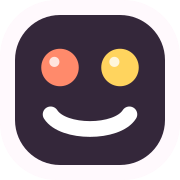
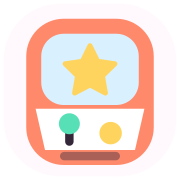
feat: refine v1 arcade branding

diff --git a/app/opengraph-image.tsx b/app/opengraph-image.tsx
@@ -51,30 +51,85 @@ export default function OpenGraphImage() {
               width: 118,
               height: 118,
               marginBottom: 22,
-              border: "9px solid white",
               borderRadius: 38,
-              background: "#34273a",
-              boxShadow: "0 10px 0 rgba(52,39,58,0.1)",
+              background: "#fff9fd",
+              boxShadow: "0 10px 0 rgba(52,39,58,0.08)",
             }}
           >
             <span
               style={{
                 position: "absolute",
-                left: 24,
-                top: 28,
-                width: 25,
-                height: 25,
-                borderRadius: 99,
+                left: 17,
+                top: 12,
+                width: 84,
+                height: 96,
+                borderRadius: 25,
                 background: CANDY_HEX.coral,
               }}
             />
             <span
               style={{
                 position: "absolute",
-                right: 24,
-                top: 28,
-                width: 25,
-                height: 25,
+                left: 27,
+                top: 22,
+                width: 64,
+                height: 47,
+                borderRadius: 15,
+                background: "#d9f1ff",
+              }}
+            />
+            <span
+              style={{
+                position: "absolute",
+                left: 46,
+                top: 31,
+                width: 26,
+                height: 26,
+                background: CANDY_HEX.lemon,
+                clipPath:
+                  "polygon(50% 0%, 61% 34%, 98% 35%, 68% 57%, 79% 94%, 50% 72%, 21% 94%, 32% 57%, 2% 35%, 39% 34%)",
+              }}
+            />
+            <span
+              style={{
+                position: "absolute",
+                left: 23,
+                top: 71,
+                width: 72,
+                height: 27,
+                background: "white",
+                clipPath: "polygon(0 0, 100% 0, 91% 100%, 9% 100%)",
+              }}
+            />
+            <span
+              style={{
+                position: "absolute",
+                left: 44,
+                top: 81,
+                width: 6,
+                height: 13,
+                borderRadius: 99,
+                background: "#34273a",
+              }}
+            />
+            <span
+              style={{
+                position: "absolute",
+                left: 40,
+                top: 76,
+                width: 14,
+                height: 14,
+                borderRadius: 99,
+                background: CANDY_HEX.mint,
+              }}
+            />
+            <span
+              style={{
+                position: "absolute",
+                left: 66,
+                top: 80,
+                width: 15,
+                height: 15,
                 borderRadius: 99,
                 background: CANDY_HEX.lemon,
               }}
@@ -82,12 +137,12 @@ export default function OpenGraphImage() {
             <span
               style={{
                 position: "absolute",
-                left: 28,
-                bottom: 22,
-                width: 62,
-                height: 24,
-                borderBottom: "9px solid white",
+                left: 39,
+                top: 100,
+                width: 40,
+                height: 6,
                 borderRadius: 99,
+                background: "rgba(52,39,58,0.42)",
               }}
             />
           </div>

diff --git a/games/fortune/FortuneGame.tsx b/games/fortune/FortuneGame.tsx
@@ -335,7 +335,10 @@ export function FortuneGame() {
             tapCookie();
           }}
           aria-label={cookieButtonLabel}
-          className="absolute left-1/2 top-[22%] z-10 grid h-[54%] w-[min(88%,30rem)] -translate-x-1/2 cursor-pointer place-items-end rounded-[45%] outline-none focus-visible:ring-4 focus-visible:ring-inset focus-visible:ring-ink/15"
+          className="absolute left-1/2 z-10 grid h-[54%] w-[min(88%,30rem)] -translate-x-1/2 cursor-pointer place-items-end rounded-[45%] outline-none focus-visible:ring-4 focus-visible:ring-inset focus-visible:ring-ink/15"
+          style={{
+            top: "max(22%, calc(env(safe-area-inset-top) + 10.75rem))",
+          }}
         >
           <span className="sr-only">{t("intro.open")}</span>
           <motion.span
@@ -364,6 +367,33 @@ export function FortuneGame() {
         className="pointer-events-none absolute h-px w-px opacity-0"
       />
       <AnimatePresence initial={false}>
+        {phase === "idle" || phase === "done" ? (
+          <motion.div
+            initial={reduceMotion ? false : { opacity: 0, y: -5 }}
+            animate={{ opacity: 1, y: 0 }}
+            exit={reduceMotion ? undefined : { opacity: 0, y: -6 }}
+            className="pointer-events-none absolute inset-x-4 z-10 flex justify-center"
+            style={{ top: "calc(env(safe-area-inset-top) + 4.25rem)" }}
+          >
+            <div className="inline-flex min-w-0 items-center gap-2.5">
+              <span
+                aria-hidden
+                className="grid h-9 w-9 shrink-0 -rotate-3 place-items-center rounded-[0.9rem] border border-candy-lemon/45 bg-surface/92 text-candy-coral shadow-[0_5px_0_color-mix(in_srgb,var(--candy-lemon)_20%,transparent)]"
+              >
+                <Cookie size={20} strokeWidth={2.35} />
+              </span>
+              <h1 className="truncate font-display text-[1.75rem] leading-none text-ink">
+                {t("title")}
+              </h1>
+              <span aria-hidden className="flex shrink-0 items-end gap-1 pt-2">
+                <span className="h-1.5 w-1.5 rounded-full bg-candy-coral" />
+                <span className="h-2 w-2 rounded-full bg-candy-lemon" />
+              </span>
+            </div>
+          </motion.div>
+        ) : null}
+      </AnimatePresence>
+      <AnimatePresence initial={false}>
         {phase === "idle" ? (
           <motion.div
             role="radiogroup"
@@ -372,7 +402,7 @@ export function FortuneGame() {
             animate={{ opacity: 1, y: 0 }}
             exit={reduceMotion ? undefined : { opacity: 0, y: -6 }}
             className="pointer-events-auto absolute left-1/2 grid w-[min(92vw,29rem)] -translate-x-1/2 grid-cols-4 gap-1.5"
-            style={{ top: "calc(env(safe-area-inset-top) + 5.25rem)" }}
+            style={{ top: "calc(env(safe-area-inset-top) + 7rem)" }}
           >
             {CATEGORY_VISUALS.map(
               ({ id, icon: CategoryIcon, activeClassName }) => {

diff --git a/components/ui/BrandMark.tsx b/components/ui/BrandMark.tsx
@@ -10,19 +10,34 @@ export function BrandMark({ className }: BrandMarkProps) {
       focusable="false"
       className={className}
     >
-      <rect width="48" height="48" rx="15" fill="var(--surface)" />
-      <rect x="4" y="4" width="40" height="40" rx="12" fill="var(--ink)" />
-      <circle cx="16" cy="18" r="5" fill="var(--candy-coral)" />
-      <circle cx="32" cy="18" r="5" fill="var(--candy-lemon)" />
-      <circle cx="14.5" cy="16.5" r="1.35" fill="var(--surface)" opacity="0.78" />
-      <circle cx="30.5" cy="16.5" r="1.35" fill="var(--surface)" opacity="0.78" />
+      <rect x="1" y="1" width="46" height="46" rx="15" fill="var(--surface)" />
+      <rect x="7" y="5" width="34" height="39" rx="10" fill="var(--candy-coral)" />
+      <rect
+        x="11"
+        y="9"
+        width="26"
+        height="19"
+        rx="6"
+        fill="color-mix(in srgb, var(--candy-sky) 30%, var(--surface))"
+      />
       <path
-        d="M13.5 30.5c3.3 5.2 17.7 5.2 21 0"
+        d="m24 12.2 2.05 4.15 4.58.67-3.31 3.23.78 4.56-4.1-2.16-4.1 2.16.78-4.56-3.31-3.23 4.58-.67Z"
+        fill="var(--candy-lemon)"
+        stroke="var(--candy-lemon)"
+        strokeWidth="1.35"
+        strokeLinejoin="round"
+      />
+      <path d="M9.5 29h29L36 40H12Z" fill="var(--surface)" />
+      <path
+        d="M18.5 33.5v4.25"
         fill="none"
-        stroke="var(--surface)"
-        strokeWidth="4.2"
+        stroke="var(--ink)"
+        strokeWidth="2.25"
         strokeLinecap="round"
       />
+      <circle cx="18.5" cy="33" r="2.8" fill="var(--candy-mint)" />
+      <circle cx="29.5" cy="35.5" r="3" fill="var(--candy-lemon)" />
+      <rect x="16" y="40.5" width="16" height="2.25" rx="1.125" fill="var(--ink)" opacity="0.42" />
     </svg>
   );
 }

diff --git a/components/ui/TopBar.tsx b/components/ui/TopBar.tsx
@@ -47,10 +47,6 @@ export function TopBar({
           >
             <BrandMark className="h-9 w-9 shrink-0 drop-shadow-[0_5px_7px_color-mix(in_srgb,var(--ink)_13%,transparent)] transition-transform duration-300 ease-[var(--ease-pop)] group-hover/brand:-rotate-3 group-hover/brand:scale-105" />
             <span className="max-w-[7rem] truncate leading-none">{siteName}</span>
-            <span aria-hidden className="flex items-end gap-0.5 self-end pb-2">
-              <span className="h-1 w-1 rounded-full bg-candy-coral" />
-              <span className="h-1.5 w-1.5 rounded-full bg-candy-lemon" />
-            </span>
           </Link>
         )}
       </div>

diff --git a/app/manifest.ts b/app/manifest.ts
@@ -12,7 +12,7 @@ export default function manifest(): MetadataRoute.Manifest {
     start_url: "/ko",
     display: "standalone",
     background_color: "#fff8f2",
-    theme_color: CANDY_HEX.pink,
+    theme_color: CANDY_HEX.coral,
     icons: [
       {
         src: "/brand-icon.svg",

diff --git a/AGENTS.md b/AGENTS.md
@@ -99,8 +99,10 @@ Techniques to reach for (use a subset per game, keep it snappy):
 
 ## 7. Status (update as you go)
 Current foundation: static KO/EN shell, seeded pure logic, one-Canvas game shell, rAF cue timeline, adaptive quality/WebGL fallback, accessible result dialog, sound/haptics helpers, and a Blender→GLB build path.
-Live experiences: a direct first-viewport lobby with one unified cabinet-face
-brand mark across the top bar, favicon, install icons, and social image. Its
+Live experiences: a direct first-viewport lobby with one unified face-free
+star-prize toy-cabinet mark across the top bar, favicon, install icons, and
+social image. Its coral body, pale-sky screen, single lemon star, and asymmetric
+joystick/button stay readable without the uncanny mirrored-eye cue. Its
 clean code-native 2D game art stays 2×2 on mobile/tablet and four-up on desktop,
 with one finite staggered power-on, restrained sheen, accent lamps/underlights,
 and a subtle static arcade-floor grid instead of new lobby copy or looping
@@ -177,10 +179,11 @@ real restrained fibers and accessible DOM fortune text at one second. The idle
 cookie now uses the same compact Lucide `Hand` icon + `Tap to open` pill as the
 draw capsule. The entire cookie remains the tap target, with no large
 pointer/finger or contact-ripple overlay. Antique parchment,
-floral corners, and deep scroll curls are intentionally removed. The title stays
-fixed while the category selector exits when opening begins; the result ribbon
-retains the chosen category icon. Fortune intentionally uses haptics without a
-mismatched generic biscuit SFX.
+floral corners, and deep scroll curls are intentionally removed. A compact
+cookie-token title lockup sits above the category selector in idle and result,
+then exits with the selector during opening so the action remains dominant; the
+result ribbon retains the chosen category icon. Fortune intentionally uses
+haptics without a mismatched generic biscuit SFX.
 Reduced-motion and WebGL fallbacks,
 Backward-compatible URL decoders and accessible announcements remain, while
 generic result-share controls and canvas-confetti have been removed from all

diff --git a/games/fortune/AGENTS.md b/games/fortune/AGENTS.md
@@ -29,10 +29,11 @@ Read this file only for changes under `games/fortune/` or its Blender asset.
   once, holds a brief pressure pose, opens once, then snaps and settles.
   Do not rapidly parade every available source image. The random message
   appears once on a thin, long DOM fortune ribbon anchored between the halves.
-  The route title is intentionally omitted from the viewport so the cookie and
-  category selector own the mobile hierarchy. Do not add a
-  pre-break levitation show, flying paper, a second result dialog, generic
-  confetti, yellow flash, or sparkle filler.
+  A compact route-title lockup sits above the selector in idle/result: one
+  cookie token, the localized Jua title, and two small candy bulbs. It exits
+  during the one-second opening so the cookie still owns the action beat. Do
+  not add a pre-break levitation show, flying paper, a second result dialog,
+  generic confetti, yellow flash, or sparkle filler.
 - The result uses a modern fortune slip surface built from Petr Kratochvil's
   CC0 white-paper photograph: one warm-white WebP with real, restrained fibers
   clipped to a nearly straight machine-cut strip. Accessible KO/EN text and

diff --git a/components/lobby/AGENTS.md b/components/lobby/AGENTS.md
@@ -21,9 +21,10 @@ The first viewport is a game picker, not a marketing landing page. A user should
 - English card names wrap to at most two lines at 390px instead of truncating;
   portrait-tablet grids are vertically balanced within the first viewport.
 - No raw emoji as artwork, no `backdrop-filter`, and no decorative interaction that looks tappable.
-- Brand identity uses one code-native cabinet-face mark: an ink rounded cabinet,
-  coral/lemon lights, and an ivory curved prize slot. Reuse it in the top bar,
-  favicon, install icons, and social lockup; do not fall back to a generic `D`.
+- Brand identity uses one code-native star-prize toy cabinet: a coral body,
+  pale-sky screen, one lemon star, and asymmetric joystick/button controls.
+  It has no face or mirrored eye-like details. Reuse it in the top bar, favicon,
+  install icons, and social lockup; do not fall back to a generic `D`.
 - Lobby delight stays finite: cards may power on once with a short stagger and
   a single restrained sheen, then remain still. Hover/focus can lift the cabinet
   and brighten its underlight. No looping sparkle, bob, pulse, or animated
